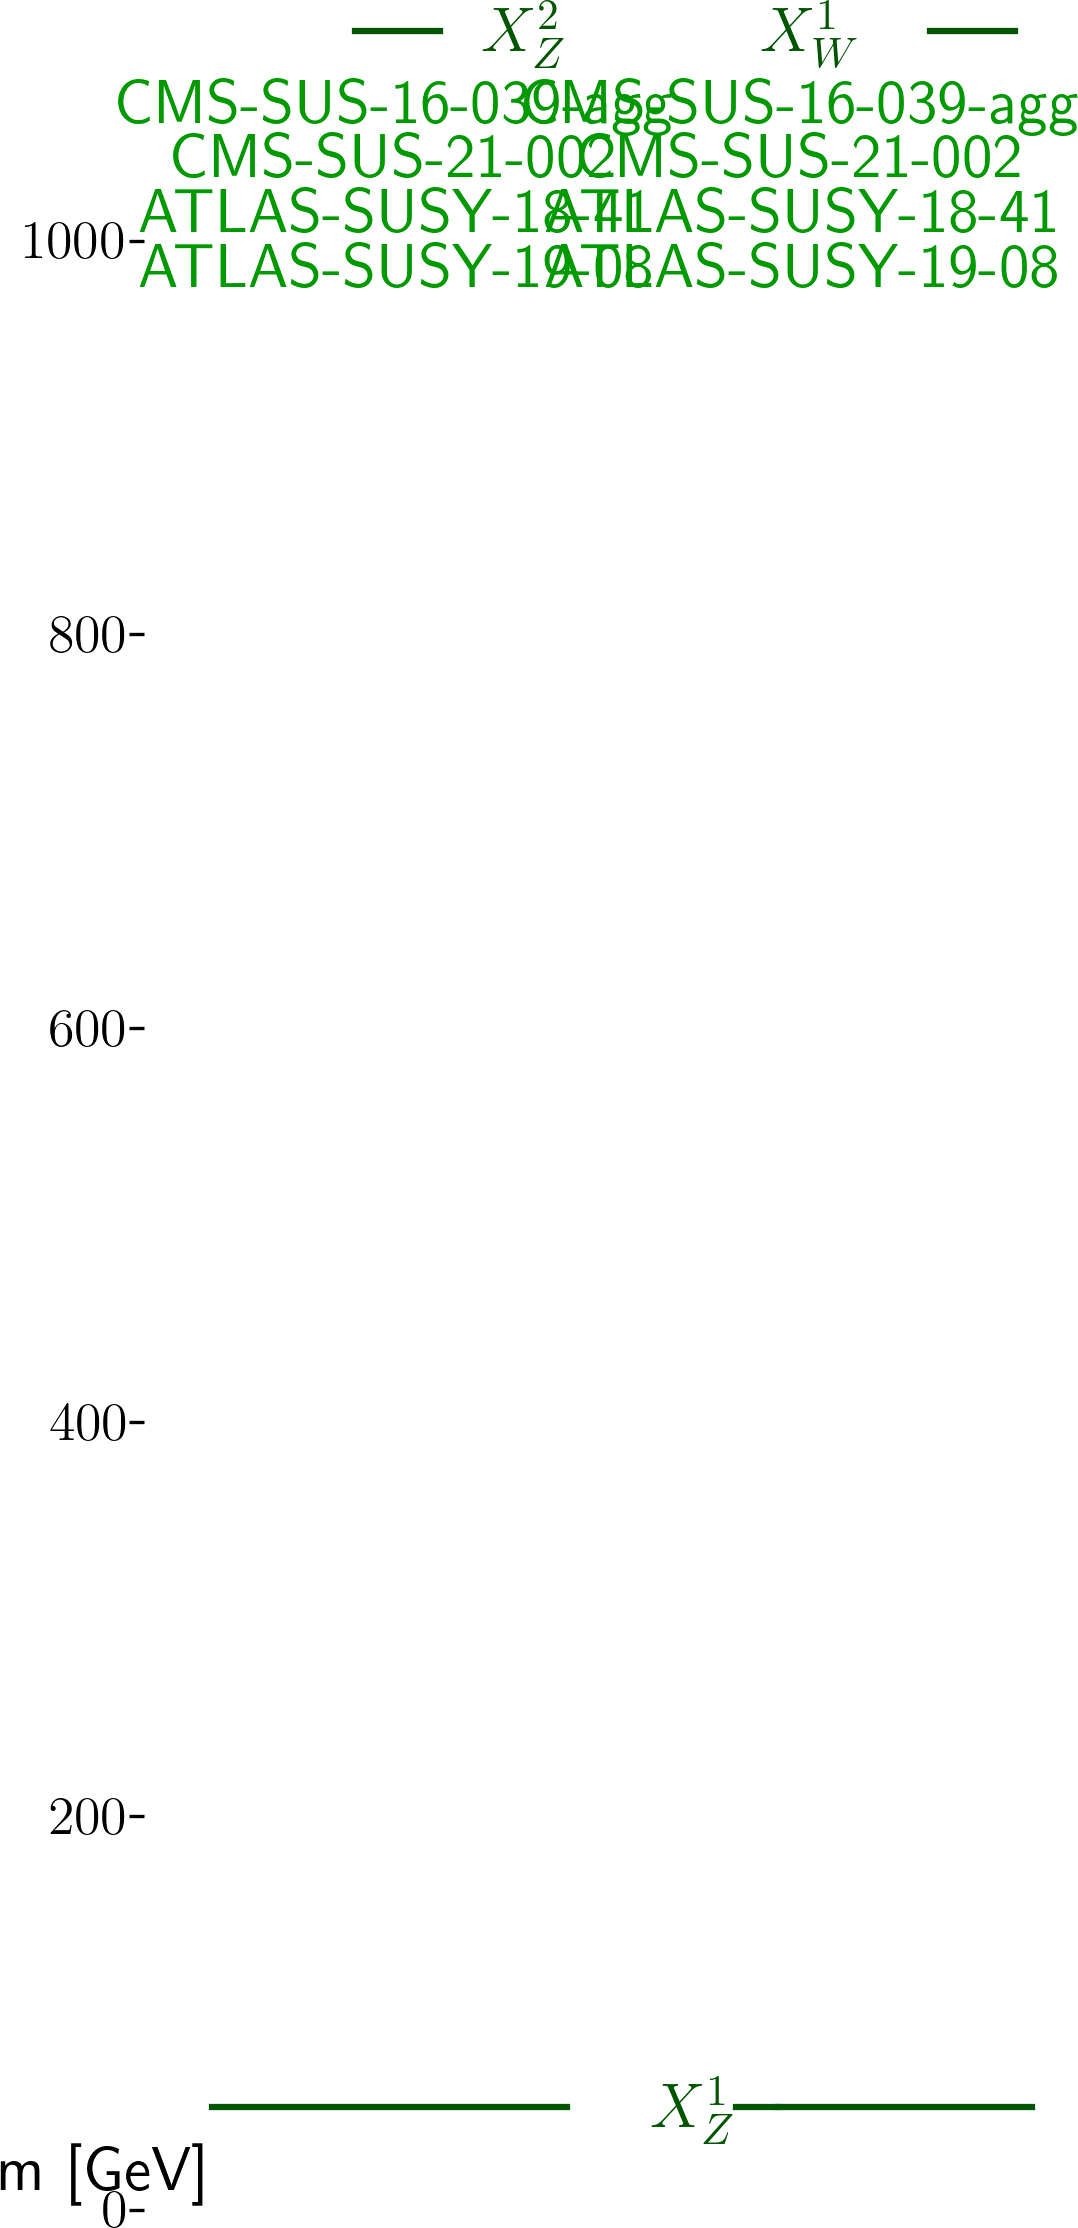
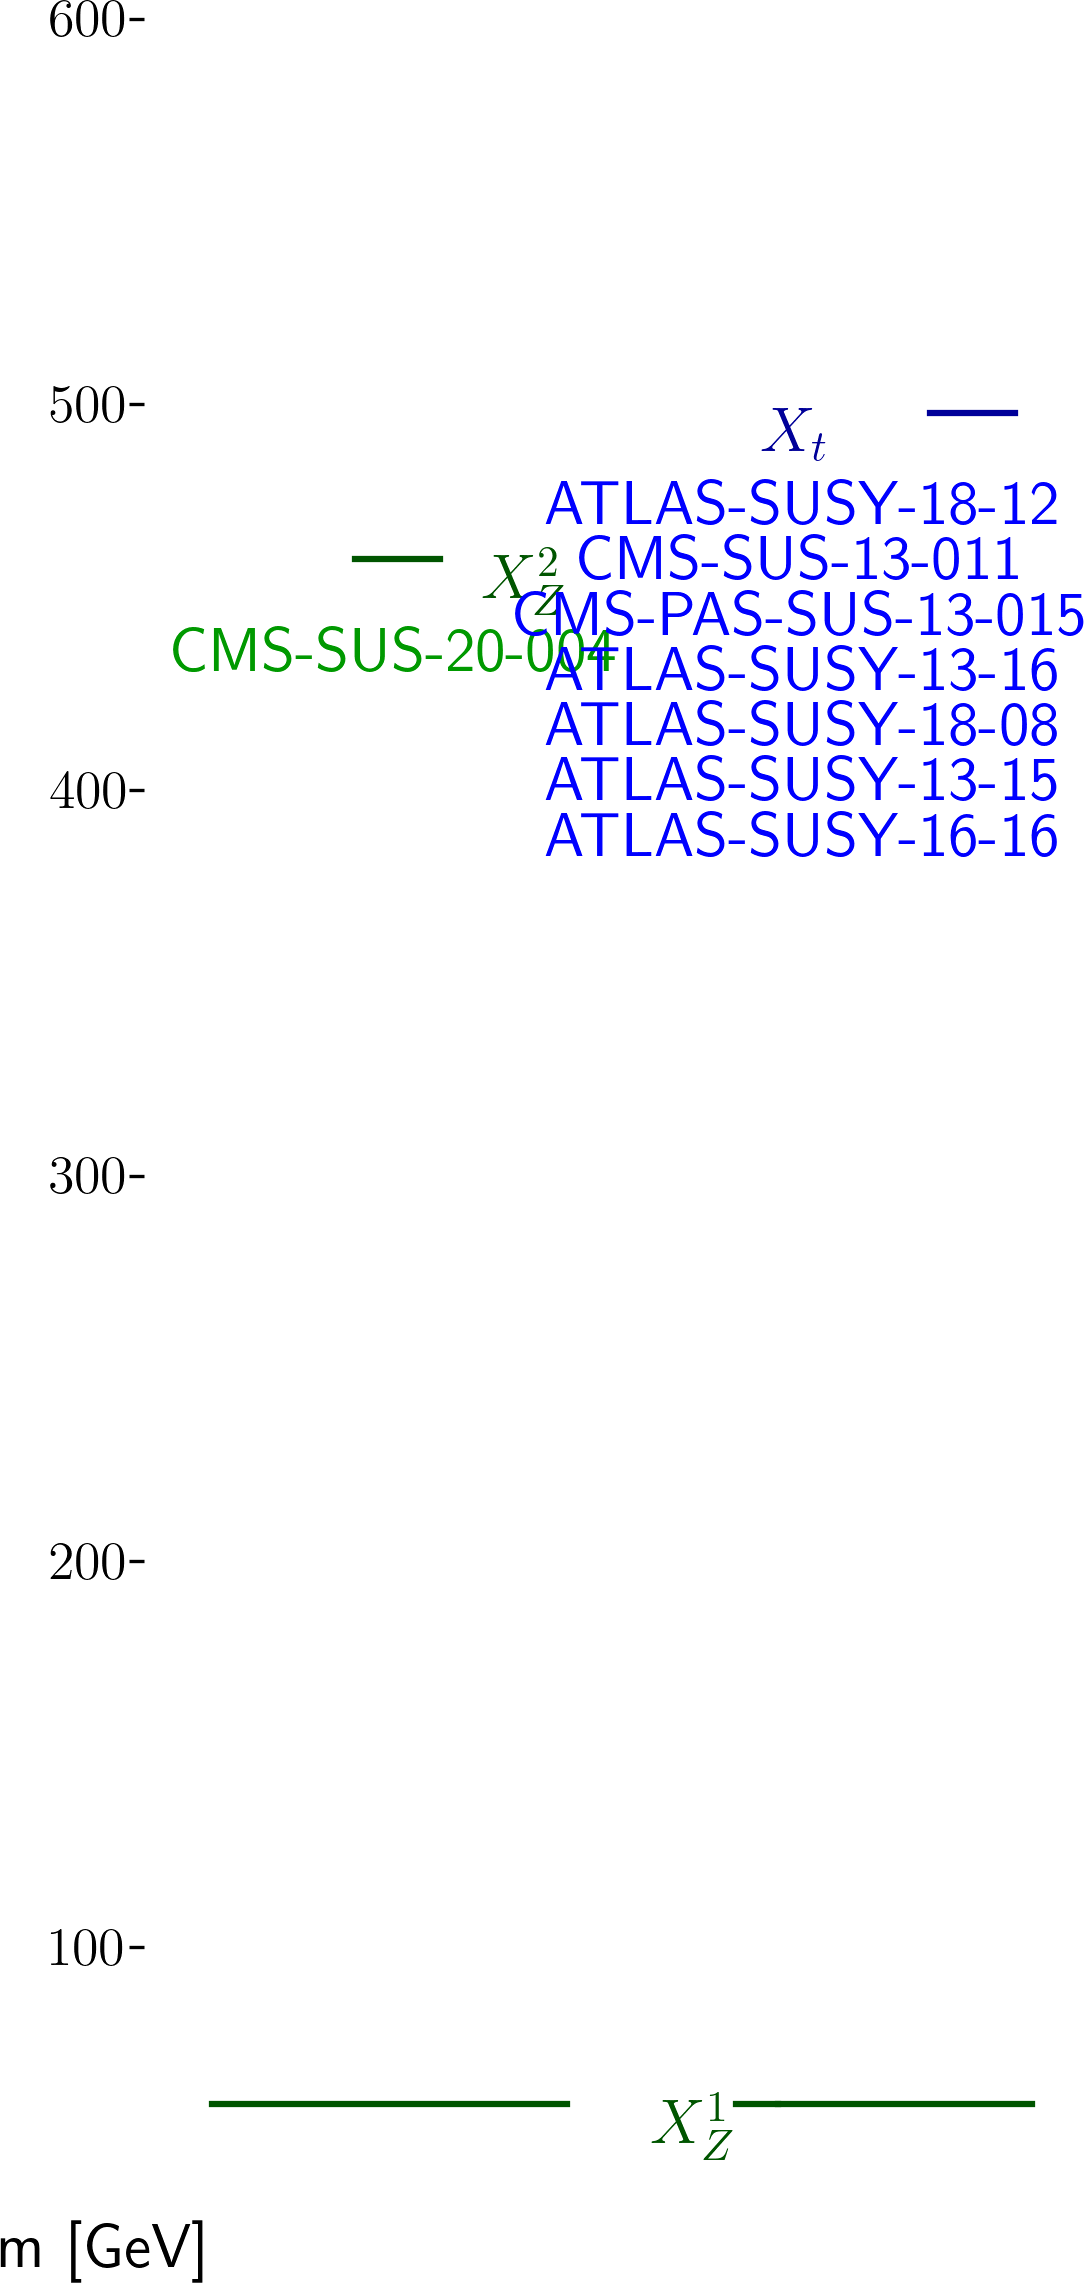
automated update by plotHiscore.py to experimental_230:     K=9.243 Z=3.57 walkerid=244

diff --git a/protomodels/experimental_230/rawnumbers.html b/protomodels/experimental_230/rawnumbers.html
@@ -1,8 +1,12 @@
 <table>
 <tr><th>Analysis Name</th><th>Type</th><th>Dataset</th><th>Topos</th><th>Observed</th><th>Expected</th><th>Approx &sigma;</th><th>Particles</th>
 </tr>
-<tr><td><a href=https://atlas.web.cern.ch/Atlas/GROUPS/PHYSICS/PAPERS/SUSY-2018-41/>ATLAS-SUSY-2018-41</a></td><td>comb</td> <td>-</td><td>TChiWH, TChiWW, TChiWZ</td><td> 0.0 fb </td><td> 0.1 fb</td><td style="text-align:right">-0.5 &sigma;</td><td style="text-align:right">X<sup>1</sup><sub>W</sub>, X<sup>2</sup><sub>Z</sub></td></tr>
-<tr><td><a href=https://atlas.web.cern.ch/Atlas/GROUPS/PHYSICS/PAPERS/SUSY-2019-08/>ATLAS-SUSY-2019-08</a></td><td>comb</td> <td>-</td><td>TChiWH</td><td> 0.1 fb </td><td> 0.0 fb</td><td style="text-align:right">1.6 &sigma;</td><td style="text-align:right">X<sup>1</sup><sub>W</sub>, X<sup>2</sup><sub>Z</sub></td></tr>
-<tr><td><a href=http://cms-results.web.cern.ch/cms-results/public-results/publications/SUS-16-039/index.html>CMS-SUS-16-039-agg</a></td><td>comb</td> <td>-</td><td>TChiWZ</td><td> 0.2 fb </td><td> 0.2 fb</td><td style="text-align:right">-0.1 &sigma;</td><td style="text-align:right">X<sup>1</sup><sub>W</sub>, X<sup>2</sup><sub>Z</sub></td></tr>
-<tr><td><a href=http://cms-results.web.cern.ch/cms-results/public-results/publications/SUS-21-002/>CMS-SUS-21-002</a></td><td>comb</td> <td>-</td><td>TChiWH, TChiWW, TChiWZ</td><td> 0.2 fb </td><td> 0.1 fb</td><td style="text-align:right">1.5 &sigma;</td><td style="text-align:right">X<sup>1</sup><sub>W</sub>, X<sup>2</sup><sub>Z</sub></td></tr>
+<tr><td><a href=https://atlas.web.cern.ch/Atlas/GROUPS/PHYSICS/PAPERS/SUSY-2013-15/>ATLAS-SUSY-2013-15</a></td><td>em</td> <td>tNboost</td><td>T2tt</td><td>5</td><td>3.3 +/- 0.7</td><td style="text-align:right">0.9 &sigma;</td><td style="text-align:right">X<sub>t</sub></td></tr>
+<tr><td><a href=https://atlas.web.cern.ch/Atlas/GROUPS/PHYSICS/PAPERS/SUSY-2013-16/>ATLAS-SUSY-2013-16</a></td><td>em</td> <td>SRA4</td><td>T2tt</td><td>4</td><td>2.4 +/- 0.7</td><td style="text-align:right">0.9 &sigma;</td><td style="text-align:right">X<sub>t</sub></td></tr>
+<tr><td><a href=https://atlas.web.cern.ch/Atlas/GROUPS/PHYSICS/PAPERS/SUSY-2016-16/>ATLAS-SUSY-2016-16</a></td><td>em</td> <td>tN_med</td><td>T2tt</td><td>50</td><td>36.3 +/- 6.6</td><td style="text-align:right">1.5 &sigma;</td><td style="text-align:right">X<sub>t</sub></td></tr>
+<tr><td><a href=https://atlas.web.cern.ch/Atlas/GROUPS/PHYSICS/PAPERS/SUSY-2018-08/>ATLAS-SUSY-2018-08</a></td><td>em</td> <td>SRSF140</td><td>T2tt</td><td>9</td><td>5.1 +/- 0.9</td><td style="text-align:right">1.6 &sigma;</td><td style="text-align:right">X<sub>t</sub></td></tr>
+<tr><td><a href=https://atlas.web.cern.ch/Atlas/GROUPS/PHYSICS/PAPERS/SUSY-2018-12/>ATLAS-SUSY-2018-12</a></td><td>em</td> <td>SRBTT</td><td>T2tt</td><td>67</td><td>46 +/- 7</td><td style="text-align:right">2.2 &sigma;</td><td style="text-align:right">X<sub>t</sub></td></tr>
+<tr><td><a href=https://twiki.cern.ch/twiki/bin/view/CMSPublic/PhysicsResultsSUS13015>CMS-PAS-SUS-13-015</a></td><td>em</td> <td>pTmiss350_Nb2</td><td>T2tt</td><td>15</td><td>8.6 +/- 7.1</td><td style="text-align:right">0.8 &sigma;</td><td style="text-align:right">X<sub>t</sub></td></tr>
+<tr><td><a href=https://twiki.cern.ch/twiki/bin/view/CMSPublic/PhysicsResultsSUS13011>CMS-SUS-13-011</a></td><td>em</td> <td>LM150</td><td>T2tt</td><td>227</td><td>251 +/- 50</td><td style="text-align:right">-0.5 &sigma;</td><td style="text-align:right">X<sub>t</sub></td></tr>
+<tr><td><a href=http://cms-results.web.cern.ch/cms-results/public-results/publications/SUS-20-004/>CMS-SUS-20-004</a></td><td>comb</td> <td>-</td><td>TChiHH</td><td> 0.2 fb </td><td> 0.1 fb</td><td style="text-align:right">2.2 &sigma;</td><td style="text-align:right">X<sup>2</sup><sub>Z</sub></td></tr>
 </table>

diff --git a/protomodels/experimental_230/index.html b/protomodels/experimental_230/index.html
@@ -1,22 +1,23 @@
 <html>
 <body>
 <center>
-<table><td><h1>Current best protomodel: <i>K</i>=-2.49, <i>Z</i>=0.93</h1><td><img height=60px src=https://smodels.github.io//protomodels/logos/protomodel_lego.png></table>
+<table><td><h1>Current best protomodel: <i>K</i>=9.24, <i>Z</i>=3.57</h1><td><img height=60px src=https://smodels.github.io//protomodels/logos/protomodel_lego.png></table>
 </center>
-<b><a href=./hiscore.slha>ProtoModel</a> <a href=./pmodel.dict>(dict)</a> produced with <a href=https://smodels.github.io//docs/Validation230>database v2.3.0</a>, combination strategy <a href=./matrix.png>aggressive</a> in walker 123 step 2.</b>  SSM plots for: <br>
+<b><a href=./hiscore.slha>ProtoModel</a> <a href=./pmodel.dict>(dict)</a> produced with <a href=https://smodels.github.io//docs/Validation230>database v2.3.0</a>, combination strategy <a href=./matrix.png>aggressive</a> in walker 244 step 46.</b>  SSM plots for: <a href=./ssm_-1000006_1000006.png?116027877>(-1000006,1000006)</a><br>
 <table width=80%>
 <tr><td>
-<br><b>4 predictions available. Highest r values are:</b><br><ul>
-<li><a href=https://atlas.web.cern.ch/Atlas/GROUPS/PHYSICS/PAPERS/SUSY-2018-41/>ATLAS-SUSY-2018-41</a>:comb:TChiWW,TChiWH,TChiWZ r=0.81, r<sub>exp</sub>=0.59<br>
-<li><a href=http://cms-results.web.cern.ch/cms-results/public-results/publications/SUS-21-002/>CMS-SUS-21-002</a>:comb:TChiWZ,TChiWH,TChiWW r=0.43, r<sub>exp</sub>=0.76<br>
-<li><a href=https://atlas.web.cern.ch/Atlas/GROUPS/PHYSICS/PAPERS/SUSY-2019-08/>ATLAS-SUSY-2019-08</a>:comb:TChiWH r=0.06, r<sub>exp</sub>=0.12<br>
-<li><a href=http://cms-results.web.cern.ch/cms-results/public-results/publications/SUS-16-039/index.html>CMS-SUS-16-039-agg</a>:comb:TChiWZ r=0.01, r<sub>exp</sub>=0.01<br>
+<br><b>38 predictions available. Highest r values are:</b><br><ul>
+<li><a href=http://cms-results.web.cern.ch/cms-results/public-results/publications/SUS-20-002/index.html>CMS-SUS-20-002</a>:ul:T2tt r=1.30, r<sub>exp</sub>=1.28<br>
+<li><a href=http://cms-results.web.cern.ch/cms-results/public-results/publications/SUS-19-010/index.html>CMS-SUS-19-010</a>:ul:T2tt r=0.89, r<sub>exp</sub>=0.88<br>
+<li><a href=http://cms-results.web.cern.ch/cms-results/public-results/publications/SUS-19-009/index.html>CMS-SUS-19-009</a>:ul:T2tt r=0.85, r<sub>exp</sub>=0.87<br>
+<li><a href=http://cms-results.web.cern.ch/cms-results/public-results/publications/SUS-19-006/index.html>CMS-SUS-19-006-agg</a>:comb:T2tt r=0.71, r<sub>exp</sub>=0.43<br>
+<li><a href=http://cms-results.web.cern.ch/cms-results/public-results/publications/SUS-19-006/index.html>CMS-SUS-19-006</a>:ul:T2tt r=0.63, r<sub>exp</sub>=0.46<br>
 </ul>
-<td><img width=600px src=./texdoc.png?1708941298>
-<br><font size=-1>Last updated: Mon Feb 26 10:54:58 2024</font>
+<td><img width=600px src=./texdoc.png?1709027877>
+<br><font size=-1>Last updated: Tue Feb 27 10:57:57 2024</font>
 </table><table style="width:80%">
-<td width=45%><img height=580px src=./ruler.png?1708941298><td width=55%><img height=340px src=./decays.png?1708941298>
-<font size=-3><iframe type="text/html" height="270px" width="100%s" frameborder="0" src="./rawnumbers.html?1708941298"></iframe></font>
+<td width=45%><img height=580px src=./ruler.png?1709027877><td width=55%><img height=340px src=./decays.png?1709027877>
+<font size=-3><iframe type="text/html" height="270px" width="100%s" frameborder="0" src="./rawnumbers.html?1709027877"></iframe></font>
 </table>
 </body>
 </html>
